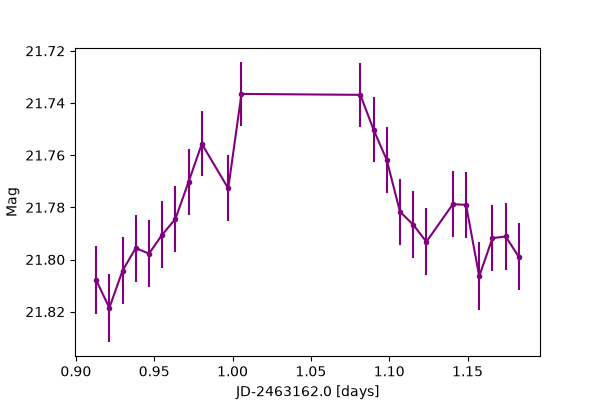
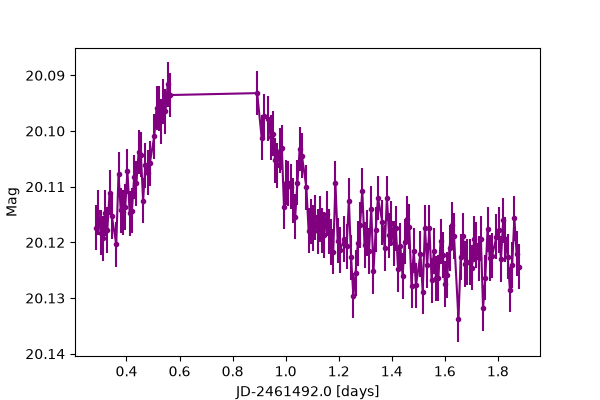
Refined residuals plot

diff --git a/custom_code/templatetags/plotting_functions.py b/custom_code/templatetags/plotting_functions.py
@@ -142,8 +142,9 @@ def plot_interactive_lightcurve(
                     width=1,
                     dash='dash',
                 )
-
-            ))
+            ),
+            row="all", col=1
+        )
     fig.update_xaxes(autorange=True)
 
     ### Try to plot model if exist
@@ -156,7 +157,8 @@ def plot_interactive_lightcurve(
                                  name=key_name,
                                  opacity=0.5,
                                  line=dict(width=5),
-                                 )
+                                 ),
+                        row=1, col=1,
                       )
 
     annotations = []
@@ -176,12 +178,8 @@ def plot_interactive_lightcurve(
 
     fig.update_layout(
         annotations=annotations,
-        xaxis_title="HJD-2460000",
         yaxis_title="Mag",
-        # Horizontal legend above the plot instead of Plotly's default
-        # vertical legend down the right side, which was eating into the
-        # plot area -- most noticeable on the narrower event-detail plot.
-        legend=dict(
+        legend=dict(            # Horizontal legend above the plot
             orientation='h',
             yanchor='bottom',
             y=1.02,
@@ -191,8 +189,13 @@ def plot_interactive_lightcurve(
         yaxis=dict(autorange='reversed'),
         xaxis=dict(autorange=True),
         height=height,
-        width=width,
+        width=width
     )
+    if show_residuals:
+        fig.update_yaxes(title_text="Residual", row=2, col=1)
+        fig.update_xaxes(title_text="HJD-2460000", row=2, col=1)  # only the bottom axis needs a label
+    else:
+        fig.update_xaxes(title_text="HJD-2460000",  row=1, col=1)
 
     # include_plotlyjs=False: the library is loaded once globally in
     # base.html instead of every plot embedding its own ~730KB copy --
